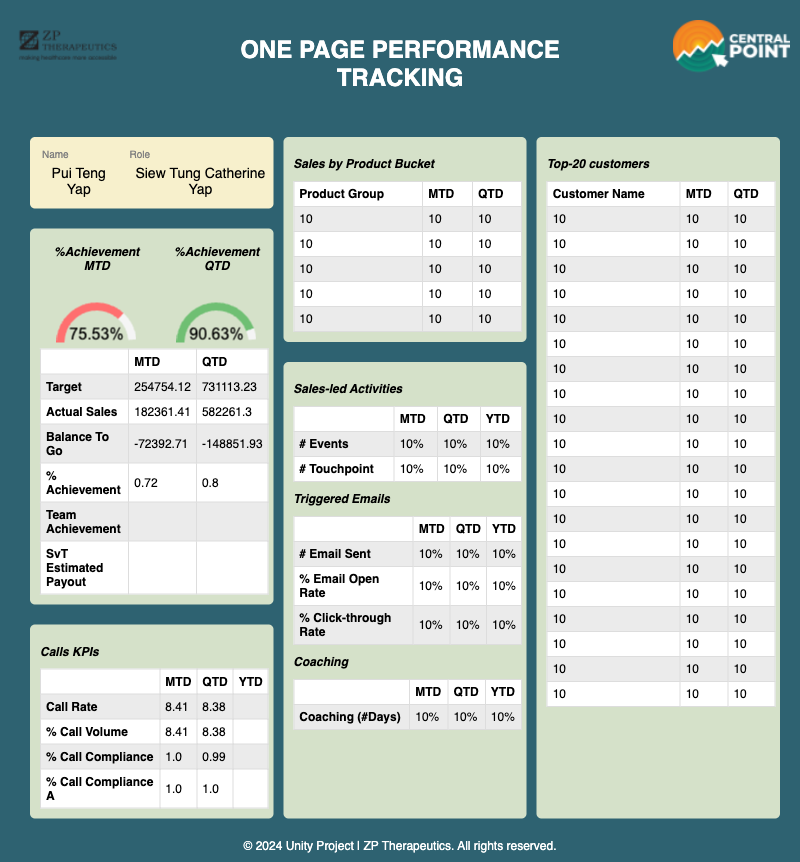
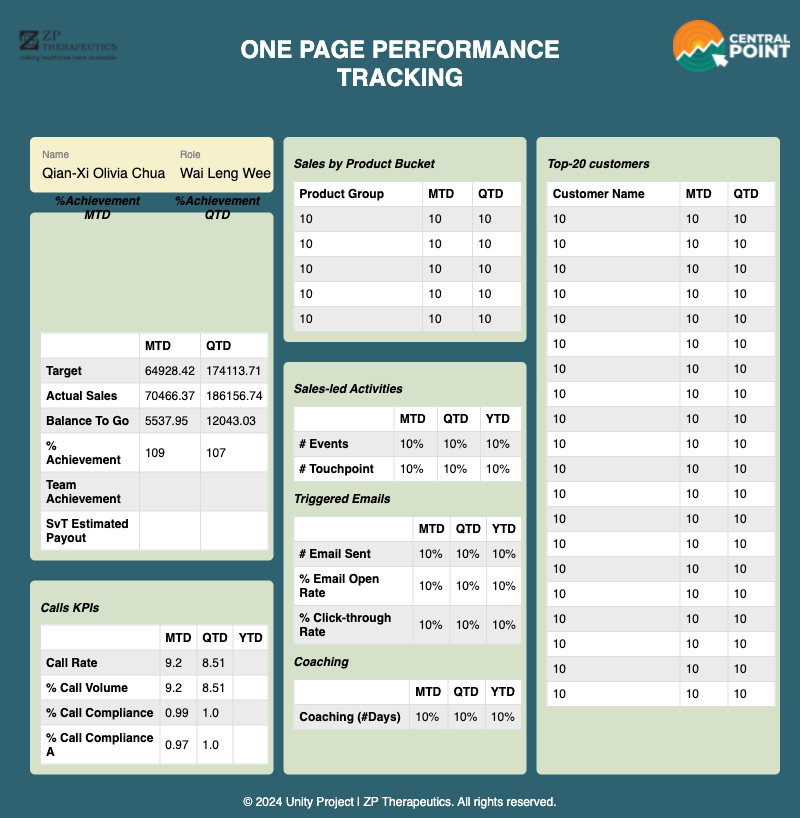
Modularize code in sharepoint

diff --git a/src/email_template.html b/src/email_template.html
@@ -216,11 +216,11 @@
                 <div class="info-row">
                     <div class="info-col">
                         <p class="box-1-header">Name</p>
-                        <p class="box-1-info">Pui Teng Yap</p>
+                        <p class="box-1-info">Qian-Xi Olivia Chua</p>
                     </div>
                     <div class="info-col">
                         <p class="box-1-header">Role</p>
-                        <p class="box-1-info">Siew Tung Catherine Yap</p>
+                        <p class="box-1-info">Wai Leng Wee</p>
                     </div>
                 </div>
             </div>
@@ -244,23 +244,23 @@
                     </tr>
                     <tr>
                         <th style="width: 48%;">Target</th>
-                        <td style="width: 26%;">254754.12</td>
-                        <td style="width: 26%;">731113.23</td>
+                        <td style="width: 26%;">64928.42</td>
+                        <td style="width: 26%;">174113.71</td>
                     </tr>
                     <tr>
                         <th style="width: 48%;">Actual Sales</th>
-                        <td style="width: 26%;">182361.41</td>
-                        <td style="width: 26%;">582261.3</td>
+                        <td style="width: 26%;">70466.37</td>
+                        <td style="width: 26%;">186156.74</td>
                     </tr>
                     <tr>
                         <th style="width: 48%;">Balance To Go</th>
-                        <td style="width: 26%;">-72392.71</td>
-                        <td style="width: 26%;">-148851.93</td>
+                        <td style="width: 26%;">5537.95</td>
+                        <td style="width: 26%;">12043.03</td>
                     </tr>
                     <tr>
                         <th style="width: 48%;">% Achievement</th>
-                        <td style="width: 26%;">0.72</td>
-                        <td style="width: 26%;">0.8</td>
+                        <td style="width: 26%;">109</td>
+                        <td style="width: 26%;">107</td>
                     </tr>
                     <tr>
                         <th style="width: 48%;">Team Achievement</th>
@@ -286,25 +286,25 @@
                     </tr>
                     <tr>
                         <th>Call Rate</th>
-                        <td>8.41</td>
-                        <td>8.38</td>
+                        <td>9.2</td>
+                        <td>8.51</td>
                         <td></td>
                     </tr>
                     <tr>
                         <th>% Call Volume</th>
-                        <td>8.41</td>
-                        <td>8.38</td>
+                        <td>9.2</td>
+                        <td>8.51</td>
                         <td></td>
                     </tr>
                     <tr>
                         <th>% Call Compliance</th>
-                        <td>1.0</td>
                         <td>0.99</td>
+                        <td>1.0</td>
                         <td></td>
                     </tr>
                     <tr>
                         <th>% Call Compliance A</th>
-                        <td>1.0</td>
+                        <td>0.97</td>
                         <td>1.0</td>
                         <td></td>
                     </tr>
@@ -589,8 +589,8 @@
         const ctxMTD = document.getElementById('gaugeChartMTD').getContext('2d');
         const ctxQTD = document.getElementById('gaugeChartQTD').getContext('2d');
 
-        const mtdValue = 75.53;
-        const qtdValue = 90.63;
+        const mtdValue = "109";
+        const qtdValue = "107";
 
         createGaugeChart(ctxMTD, mtdValue, convertToPercentageString(mtdValue));
         createGaugeChart(ctxQTD, qtdValue, convertToPercentageString(qtdValue));

diff --git a/src/index.html b/src/index.html
@@ -589,8 +589,8 @@
         const ctxMTD = document.getElementById('gaugeChartMTD').getContext('2d');
         const ctxQTD = document.getElementById('gaugeChartQTD').getContext('2d');
 
-        const mtdValue = 75.53;
-        const qtdValue = 90.63;
+        const mtdValue = "{{ row['%Achievement_MTD']}}";
+        const qtdValue = "{{ row['%Achievement_QTD']}}";
 
         createGaugeChart(ctxMTD, mtdValue, convertToPercentageString(mtdValue));
         createGaugeChart(ctxQTD, qtdValue, convertToPercentageString(qtdValue));

diff --git a/src/sharepoint.py b/src/sharepoint.py
@@ -28,76 +28,113 @@ app = msal.ConfidentialClientApplication(
 # Acquire a token
 result = app.acquire_token_for_client(scopes=SCOPES)
 
+def get_site_id(headers):
+    # Get the site ID
+    try:
+        site_response = requests.get(
+            f"https://graph.microsoft.com/v1.0/sites/{SHAREPOINT_SITE}:{SHAREPOINT_SITE_PATH}",
+            headers=headers
+        )
+        site_response.raise_for_status()
+    except requests.exceptions.HTTPError as errh:
+        print(f"HTTP Error: {errh}")
+    except requests.exceptions.ConnectionError as errc:
+        print(f"Error Connecting: {errc}")
+    except requests.exceptions.Timeout as errt:
+        print(f"Timeout Error: {errt}")
+    except requests.exceptions.RequestException as err:
+        print(f"Error: {err}")
+    else:
+        site_id = site_response.json().get('id')
+        if not site_id:
+            print("Could not retrieve site ID. Check the site URL and path.")
+        else:
+            get_folder_id(site_id, headers)
+
+def get_folder_id(site_id, headers):
+    # Get the folder ID
+    try:
+        folder_response = requests.get(
+            f"https://graph.microsoft.com/v1.0/sites/{site_id}/drive/root:/{FOLDER_PATH}",
+            headers=headers
+        )
+        folder_response.raise_for_status()
+    except requests.exceptions.RequestException as e:
+        print(f"Error retrieving folder ID: {e}")
+    else:
+        folder_id = folder_response.json().get('id')
+        if not folder_id:
+            print("Could not retrieve folder ID. Check the folder path.")
+        else:
+            get_folder(site_id, folder_id, headers)
+
+def save_file_to_computer(site_id, file_id, file_name, headers):
+    # Download the file content
+    try:
+        file_content_response = requests.get(
+            f"https://graph.microsoft.com/v1.0/sites/{site_id}/drive/items/{file_id}/content",
+            headers=headers
+        )
+        file_content_response.raise_for_status()
+    except requests.exceptions.RequestException as e:
+        print(f"Error downloading file {file_name}: {e}")
+    else:
+        # Save the file to the local computer
+        with open(f"test_data/{file_name}", 'wb') as local_file:
+            local_file.write(file_content_response.content)
+            print(f"{file_name} successfully saved to local computer")
+
+def find_csv_files(site_id, items_folder, headers):
+    # List and download all CSV files
+    csv_files = [item for item in items_folder if item['name'].endswith('.csv')]
+    if csv_files:
+        print("CSV files in the folder:")
+        for csv_file in csv_files:
+            file_name = csv_file['name']
+            file_id = csv_file['id']
+            print(file_name)
+            save_file_to_computer(site_id, file_id, file_name, headers)
+    else:
+        print("No CSV files found in the folder.")
+
+def get_folder(site_id, folder_id, headers):
+    # Get the items in the folder
+    try:
+        items_response = requests.get(
+            f"https://graph.microsoft.com/v1.0/sites/{site_id}/drive/items/{folder_id}/children",
+            headers=headers
+        )
+        items_response.raise_for_status()
+    except requests.exceptions.RequestException as e:
+        print(f"Error retrieving folder items: {e}")
+    else:
+        items_folder = items_response.json().get('value', [])
+        find_csv_files(site_id, items_folder, headers)
+
+def get_site(sharepoint_site, sharepoint_site_path, headers):
+    # Get the site ID
+    try:
+        site_response = requests.get(
+            f"https://graph.microsoft.com/v1.0/sites/{sharepoint_site}:{sharepoint_site_path}",
+            headers=headers
+        )
+        site_response.raise_for_status()
+    except requests.exceptions.RequestException as e:
+        print(f"Error retrieving site ID: {e}")
+    else:
+        site_id = site_response.json().get('id')
+        if not site_id:
+            print("Could not retrieve site ID. Check the site URL and path.")
+        else:
+            get_folder_id(site_id, headers)
+
 if "access_token" in result:
     access_token = result['access_token']
     headers = {
         'Authorization': f'Bearer {access_token}'
     }
 
-    # Get the site ID
-    site_response = requests.get(
-        f"https://graph.microsoft.com/v1.0/sites/{SHAREPOINT_SITE}:{SHAREPOINT_SITE_PATH}",
-        headers=headers
-    )
-
-    if site_response.status_code == 403:
-        print("Access denied. Check the permissions granted to the application and ensure the user has access to the SharePoint site.")
-    elif site_response.status_code == 404:
-        print("Site not found. Check the site URL and path.")
-    else:
-        site_response.raise_for_status()
-        site_id = site_response.json().get('id')
-
-        if not site_id:
-            print("Could not retrieve site ID. Check the site URL and path.")
-        else:
-            # Get the folder ID
-            folder_response = requests.get(
-                f"https://graph.microsoft.com/v1.0/sites/{site_id}/drive/root:/{FOLDER_PATH}",
-                headers=headers
-            )
-
-            if folder_response.status_code == 404:
-                print("Folder not found. Check the folder path.")
-            else:
-                folder_response.raise_for_status()
-                folder_id = folder_response.json().get('id')
-
-                if not folder_id:
-                    print("Could not retrieve folder ID. Check the folder path.")
-                else:
-                    # Get the items in the folder
-                    items_response = requests.get(
-                        f"https://graph.microsoft.com/v1.0/sites/{site_id}/drive/items/{folder_id}/children",
-                        headers=headers
-                    )
-                    items_response.raise_for_status()
-                    items = items_response.json().get('value', [])
-
-                    # List and download all CSV files
-                    csv_files = [item for item in items if item['name'].endswith('.csv')]
-                    if csv_files:
-                        print("CSV files in the folder:")
-                        for csv_file in csv_files:
-                            file_name = csv_file['name']
-                            file_id = csv_file['id']
-                            print(file_name)
-
-                            # Download the file content
-                            file_content_response = requests.get(
-                                f"https://graph.microsoft.com/v1.0/sites/{site_id}/drive/items/{file_id}/content",
-                                headers=headers
-                            )
-                            file_content_response.raise_for_status()
-
-                            # Save the file to the local computer
-                            with open(f"data/{file_name}", 'wb') as local_file:
-                                local_file.write(file_content_response.content)
-                                print(f"{file_name} successfully saved to local computer")
-
-                    else:
-                        print("No CSV files found in the folder.")
-
+    get_site(SHAREPOINT_SITE, SHAREPOINT_SITE_PATH, headers)
 else:
     print("No token found.")
     print(result.get("error"))
